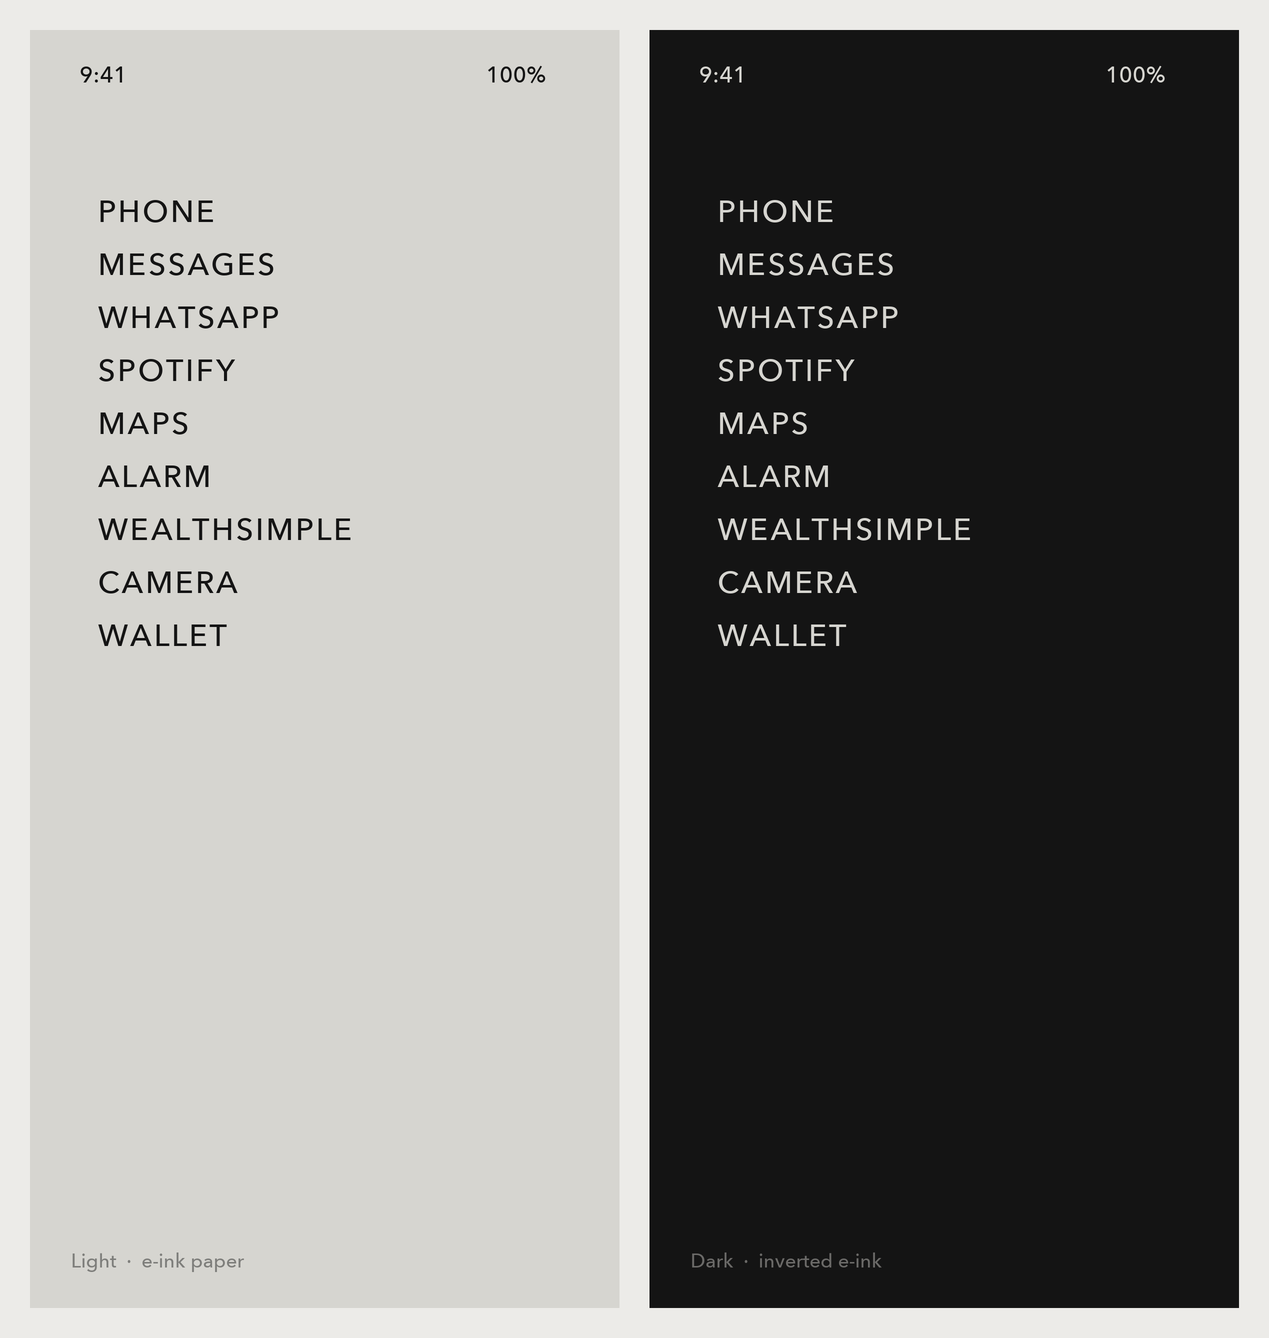
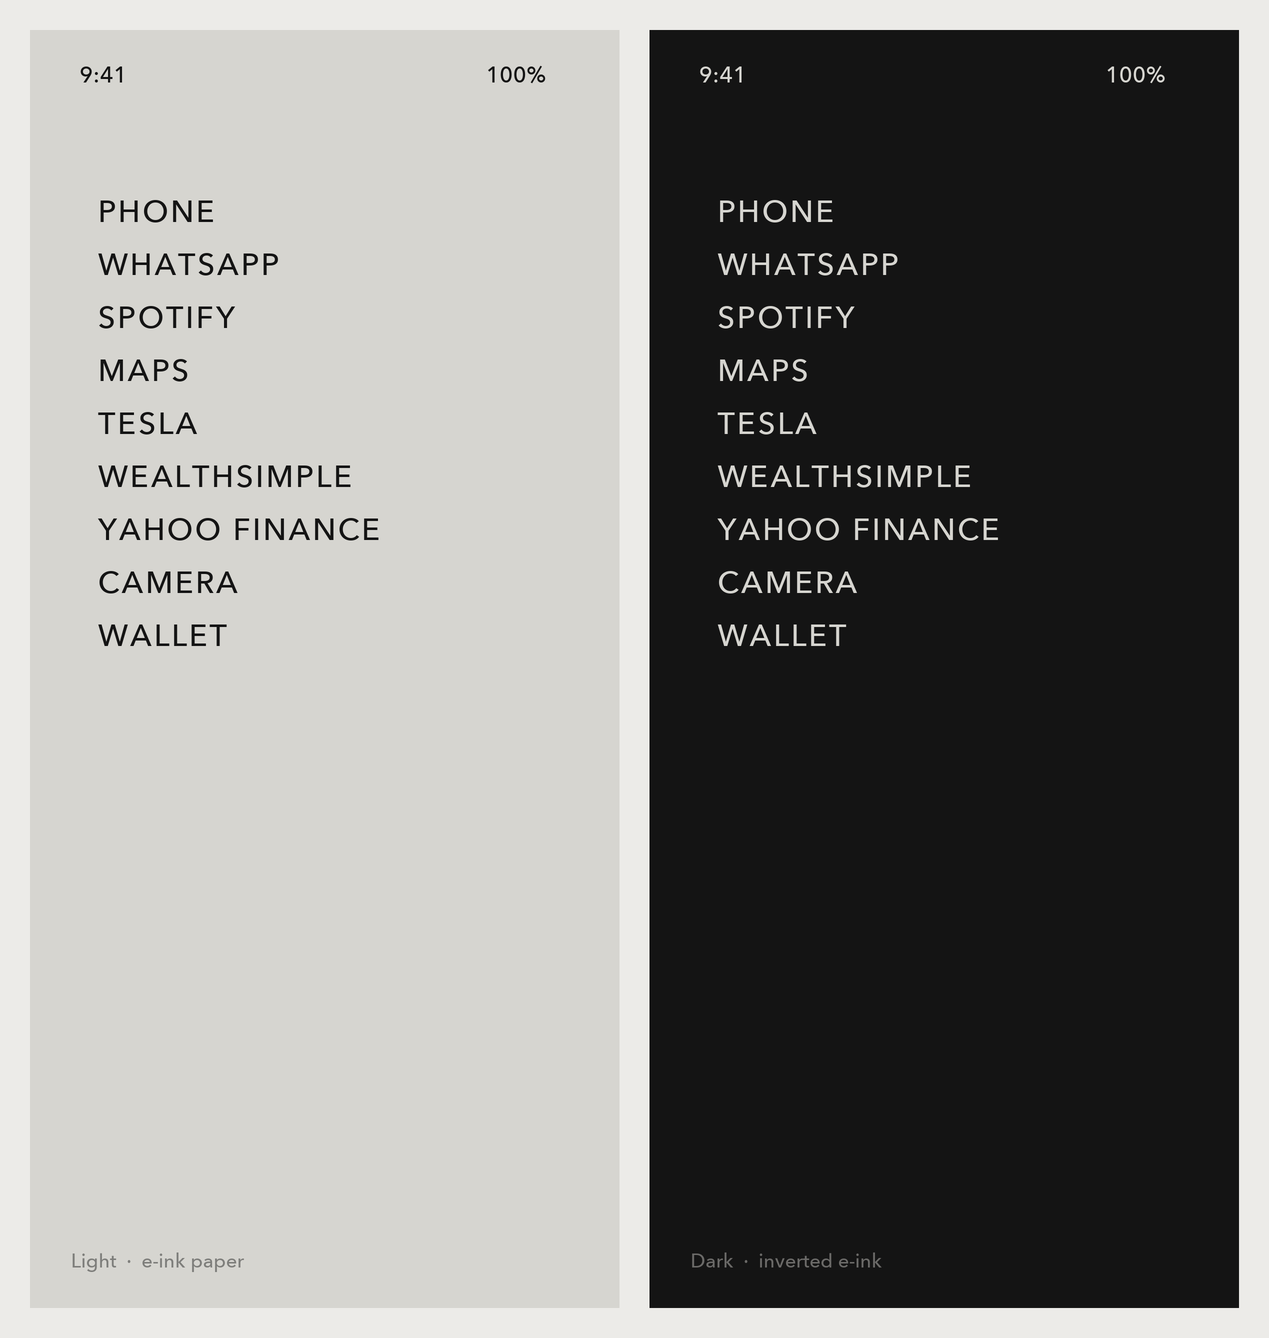
Swap Messages and Alarm for Tesla and Yahoo Finance
Still nine rows, so the widget layout, type size and spacing are unchanged.

- widget: TOOLS is now PHONE, WHATSAPP, SPOTIFY, MAPS, TESLA, WEALTHSIMPLE,
  YAHOO FINANCE, CAMERA, WALLET. Neither Tesla nor Yahoo Finance has a
  documented URL scheme, so both route through Shortcuts regardless of
  FORCE_SHORTCUTS.

- generator: split_word now breaks a multi-word label at the space nearest
  the middle rather than at the raw midpoint, which otherwise rendered
  "YAHOO FINANCE" as "YAHOO " / "FINANCE" with the trailing space throwing
  off the centring. Tile filenames are slugified: yahoo-finance.png.

- docs: the install step now says to paste the file's *contents*, not its
  link. Pasting the GitHub URL into Scriptable raises a SyntaxError, which
  is an easy and confusing first mistake.

- assets: word tiles and the hero preview regenerated for the new list.

Changed region(s): [[0.0615, 0.1839, 0.2766, 0.429], [0.5532, 0.1839, 0.7683, 0.429]]

diff --git a/widget/LightPhone.js b/widget/LightPhone.js
@@ -20,15 +20,15 @@ const FORCE_SHORTCUTS = true;
 
 // [label, shortcut name, native scheme or null]
 const TOOLS = [
-  ["PHONE",        "LP Phone",        "mobilephone://"],
-  ["MESSAGES",     "LP Messages",     "sms://"],
-  ["WHATSAPP",     "LP WhatsApp",     "whatsapp://"],
-  ["SPOTIFY",      "LP Spotify",      "spotify://"],
-  ["MAPS",         "LP Maps",         "maps://"],   // Google: comgooglemaps://
-  ["ALARM",        "LP Alarm",        "mobiletimer://"],
-  ["WEALTHSIMPLE", "LP Wealthsimple", null],
-  ["CAMERA",       "LP Camera",       null],
-  ["WALLET",       "LP Wallet",       "shoebox://"],
+  ["PHONE",         "LP Phone",         "mobilephone://"],
+  ["WHATSAPP",      "LP WhatsApp",      "whatsapp://"],
+  ["SPOTIFY",       "LP Spotify",       "spotify://"],
+  ["MAPS",          "LP Maps",          "maps://"],   // Google: comgooglemaps://
+  ["TESLA",         "LP Tesla",         null],
+  ["WEALTHSIMPLE",  "LP Wealthsimple",  null],
+  ["YAHOO FINANCE", "LP Yahoo Finance", null],
+  ["CAMERA",        "LP Camera",        null],
+  ["WALLET",        "LP Wallet",        "shoebox://"],
 ];
 
 // ── Build ─────────────────────────────────────────────────────────────

diff --git a/tools/generate_assets.py b/tools/generate_assets.py
@@ -43,8 +43,8 @@ PADDING = 0.05      # tile padding, as a fraction of tile size
 SPLIT_OVER = 9      # words longer than this are broken onto two lines
 
 DEFAULT_WORDS = [
-    "PHONE", "MESSAGES", "WHATSAPP", "SPOTIFY", "MAPS",
-    "ALARM", "WEALTHSIMPLE", "CAMERA", "WALLET",
+    "PHONE", "WHATSAPP", "SPOTIFY", "MAPS", "TESLA",
+    "WEALTHSIMPLE", "YAHOO FINANCE", "CAMERA", "WALLET",
 ]
 
 
@@ -71,11 +71,20 @@ def hex_to_rgb(value: str) -> tuple[int, int, int]:
 
 
 def split_word(word: str) -> list[str]:
-    """Break an over-long word onto two balanced lines."""
+    """Break an over-long label onto two lines, at a space where there is one."""
     if len(word) <= SPLIT_OVER:
         return [word]
+    spaces = [i for i, c in enumerate(word) if c == " "]
+    if spaces:
+        i = min(spaces, key=lambda i: abs(i - len(word) / 2))
+        return [word[:i].strip(), word[i + 1:].strip()]
     mid = len(word) // 2
     return [word[:mid], word[mid:]]
+
+
+def slug(word: str) -> str:
+    """Filename stem for a label: 'YAHOO FINANCE' -> 'yahoo-finance'."""
+    return "-".join(word.lower().split())
 
 
 class Renderer:
@@ -191,7 +200,7 @@ def main() -> None:
     for variant, bg, fg in (("light", paper, ink), ("dark", ink, paper)):
         for word in words:
             r.tile(word, os.path.join(args.out, f"tiles/words-{variant}",
-                                      f"{word.lower()}.png"), bg, fg, size)
+                                      f"{slug(word)}.png"), bg, fg, size)
         Image.new("RGB", (TILE, TILE), bg).save(
             os.path.join(args.out, "tiles/blank", f"blank-{variant}.png"))
         Image.new("RGB", (ww, wh), bg).save(

diff --git a/docs/SETUP.md b/docs/SETUP.md
@@ -1,6 +1,6 @@
 # Light Phone mode — iPhone setup
 
-Allowed tools: Phone · Messages · WhatsApp · Spotify · Maps · Alarm · Wealthsimple · Camera · Wallet
+Allowed tools: Phone · WhatsApp · Spotify · Maps · Tesla · Wealthsimple · Yahoo Finance · Camera · Wallet
 
 ## Files
 
@@ -19,26 +19,29 @@ rename (top of the screen) → Done. The name must match **exactly**.
 
 | Shortcut name     | Open App → |
 |-------------------|------------|
-| `LP Phone`        | Phone |
-| `LP Messages`     | Messages |
-| `LP WhatsApp`     | WhatsApp |
-| `LP Spotify`      | Spotify |
-| `LP Maps`         | Maps (or Google Maps) |
-| `LP Alarm`        | Clock |
-| `LP Wealthsimple` | Wealthsimple |
-| `LP Camera`       | Camera |
-| `LP Wallet`       | Wallet |
+| `LP Phone`         | Phone |
+| `LP WhatsApp`      | WhatsApp |
+| `LP Spotify`       | Spotify |
+| `LP Maps`          | Maps (or Google Maps) |
+| `LP Tesla`         | Tesla |
+| `LP Wealthsimple`  | Wealthsimple |
+| `LP Yahoo Finance` | Yahoo Finance |
+| `LP Camera`        | Camera |
+| `LP Wallet`        | Wallet |
 
 Turn each one's **Show in Share Sheet** off and **Pin to Search** off so they stay out of
 your way (shortcut details → the (i) tab).
 
 To kill the Shortcuts flash on a row once you've confirmed its native scheme works:
 set `FORCE_SHORTCUTS = false` at the top of `widget/LightPhone.js`. Rows with a scheme listed
-then launch instantly; Wealthsimple and Camera keep using Shortcuts either way.
+then launch instantly; Tesla, Wealthsimple, Yahoo Finance and Camera keep using
+Shortcuts either way — none of them has a documented scheme.
 
 ## 2. The screen
 1. Install **Scriptable** (free, App Store).
-2. Scriptable → **+** → paste `widget/LightPhone.js` → name it `Light Phone`.
+2. Scriptable → **+** → paste the *contents* of `widget/LightPhone.js` → name it `Light Phone`.
+   On the phone, use GitHub's **copy-raw** button (two overlapping squares, in the file toolbar)
+   or the raw URL. Pasting the *link* gives a `SyntaxError` — Scriptable runs whatever is in the editor.
 3. Set `assets/wallpapers/wallpaper-light.png` as wallpaper (Photos → share → Use as Wallpaper). Turn **off** Depth Effect and all Lock Screen widgets.
 4. Make a new Home Screen page. Long-press → widget **+** → Scriptable → **Large** → choose script `Light Phone`, "When Interacting: Run Script" off.
 5. Remove every icon from that page and empty the Dock (drag icons to another page).
@@ -75,7 +78,7 @@ Trigger: Action button → Focus → Light Phone, or a Control Center / Lock Scr
 ## 5. The lock (otherwise you just swipe to App Library)
 Settings → Screen Time:
 - **Downtime** → schedule it → **Block at Downtime** on
-- **Always Allowed** → exactly: Phone, Messages, WhatsApp, Spotify, Maps, Clock, Wealthsimple, Camera, Wallet
+- **Always Allowed** → exactly: Phone, WhatsApp, Spotify, Maps, Tesla, Wealthsimple, Yahoo Finance, Camera, Wallet
 - **Content & Privacy Restrictions → Allowed Apps → Safari: off**
 - Set a **Screen Time passcode different from your device passcode**. Write it on paper. Don't memorise it.
 

diff --git a/README.md b/README.md
@@ -51,12 +51,17 @@ Roughly fifteen minutes, most of it making shortcuts.
 
 **1. Shortcuts.** The widget routes each row through Shortcuts so it never depends on an
 undocumented URL scheme. Make nine, each one action — `Open App` → the app — named
-exactly `LP Phone`, `LP Messages`, `LP WhatsApp`, `LP Spotify`, `LP Maps`, `LP Alarm`,
-`LP Wealthsimple`, `LP Camera`, `LP Wallet`.
+exactly `LP Phone`, `LP WhatsApp`, `LP Spotify`, `LP Maps`, `LP Tesla`,
+`LP Wealthsimple`, `LP Yahoo Finance`, `LP Camera`, `LP Wallet`.
 
-**2. Widget.** Install Scriptable, add a new script, paste in
+**2. Widget.** Install Scriptable, add a new script, paste in the *contents* of
 [`widget/LightPhone.js`](widget/LightPhone.js), name it `Light Phone`. Add a **Large**
 Scriptable widget to an empty Home Screen page and point it at that script.
+
+> On the phone, open the file on GitHub and tap the **copy-raw** button in the file
+> toolbar — the two-overlapping-squares icon. Pasting the file's *link* into Scriptable
+> gives you `SyntaxError: Unexpected token`, because Scriptable tries to run the URL as
+> code.
 
 **3. Wallpaper.** Save `assets/wallpapers/wallpaper-light.png` (or `-dark`) to Photos and
 set it as your wallpaper. On a phone, open the file on GitHub and long-press the image to
